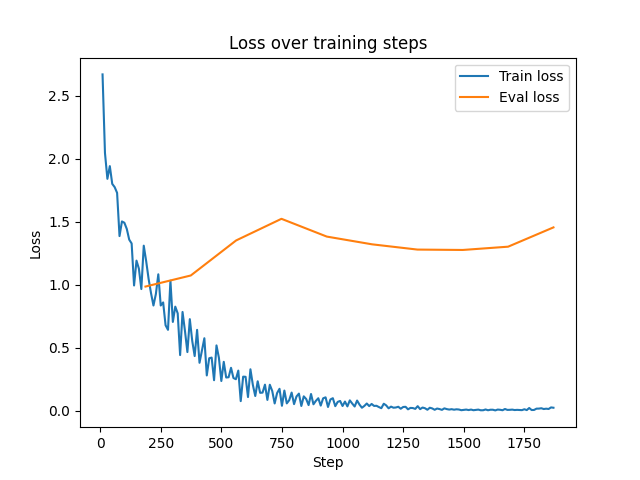
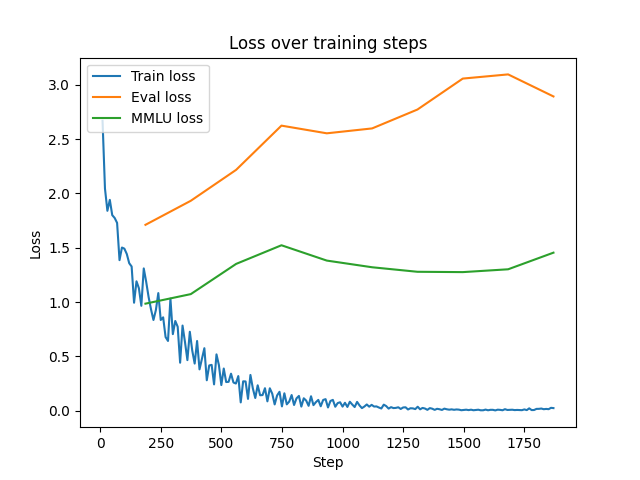
Improved loss plot

diff --git a/analysis.py b/analysis.py
@@ -299,19 +299,25 @@ def plot_loss():
 
         train_loss = []
         eval_loss = []
+        mmlu_loss = []
         for step in data["log_history"]:
             if "loss" in step:
                 train_loss.append((step["step"], step["loss"]))
+            elif "eval_loss" in step:
+                eval_loss.append((step["step"], step["eval_loss"]))
             elif "mmlu_loss" in step:
-                eval_loss.append((step["step"], step["mmlu_loss"]))
+                mmlu_loss.append((step["step"], step["mmlu_loss"]))
 
         plt.plot(*zip(*train_loss), label="Train loss")
         plt.plot(*zip(*eval_loss), label="Eval loss")
+        plt.plot(*zip(*mmlu_loss), label="MMLU loss")
         plt.legend()
         plt.xlabel("Step")
         plt.ylabel("Loss")
         plt.title("Loss over training steps")
         plt.show()
+
+    exit()
 
 def print_runtime():
     runtimes = defaultdict(list)
@@ -342,11 +348,11 @@ def print_runtime():
     exit()
 
 def analyze(models):
-    grassmann_matrices = analyze_grassmann(models)
-    plot_grassmann(grassmann_matrices)
+    #grassmann_matrices = analyze_grassmann(models)
+    #plot_grassmann(grassmann_matrices)
 
-    #absolute_matrices = analyze_absolute(models)
-    #print_absolute(absolute_matrices)
+    absolute_matrices = analyze_absolute(models)
+    print_absolute(absolute_matrices)
 
 specificModels = []#["alpaca-2-7b-r64", "alpaca-2-7b-r8"]
 
